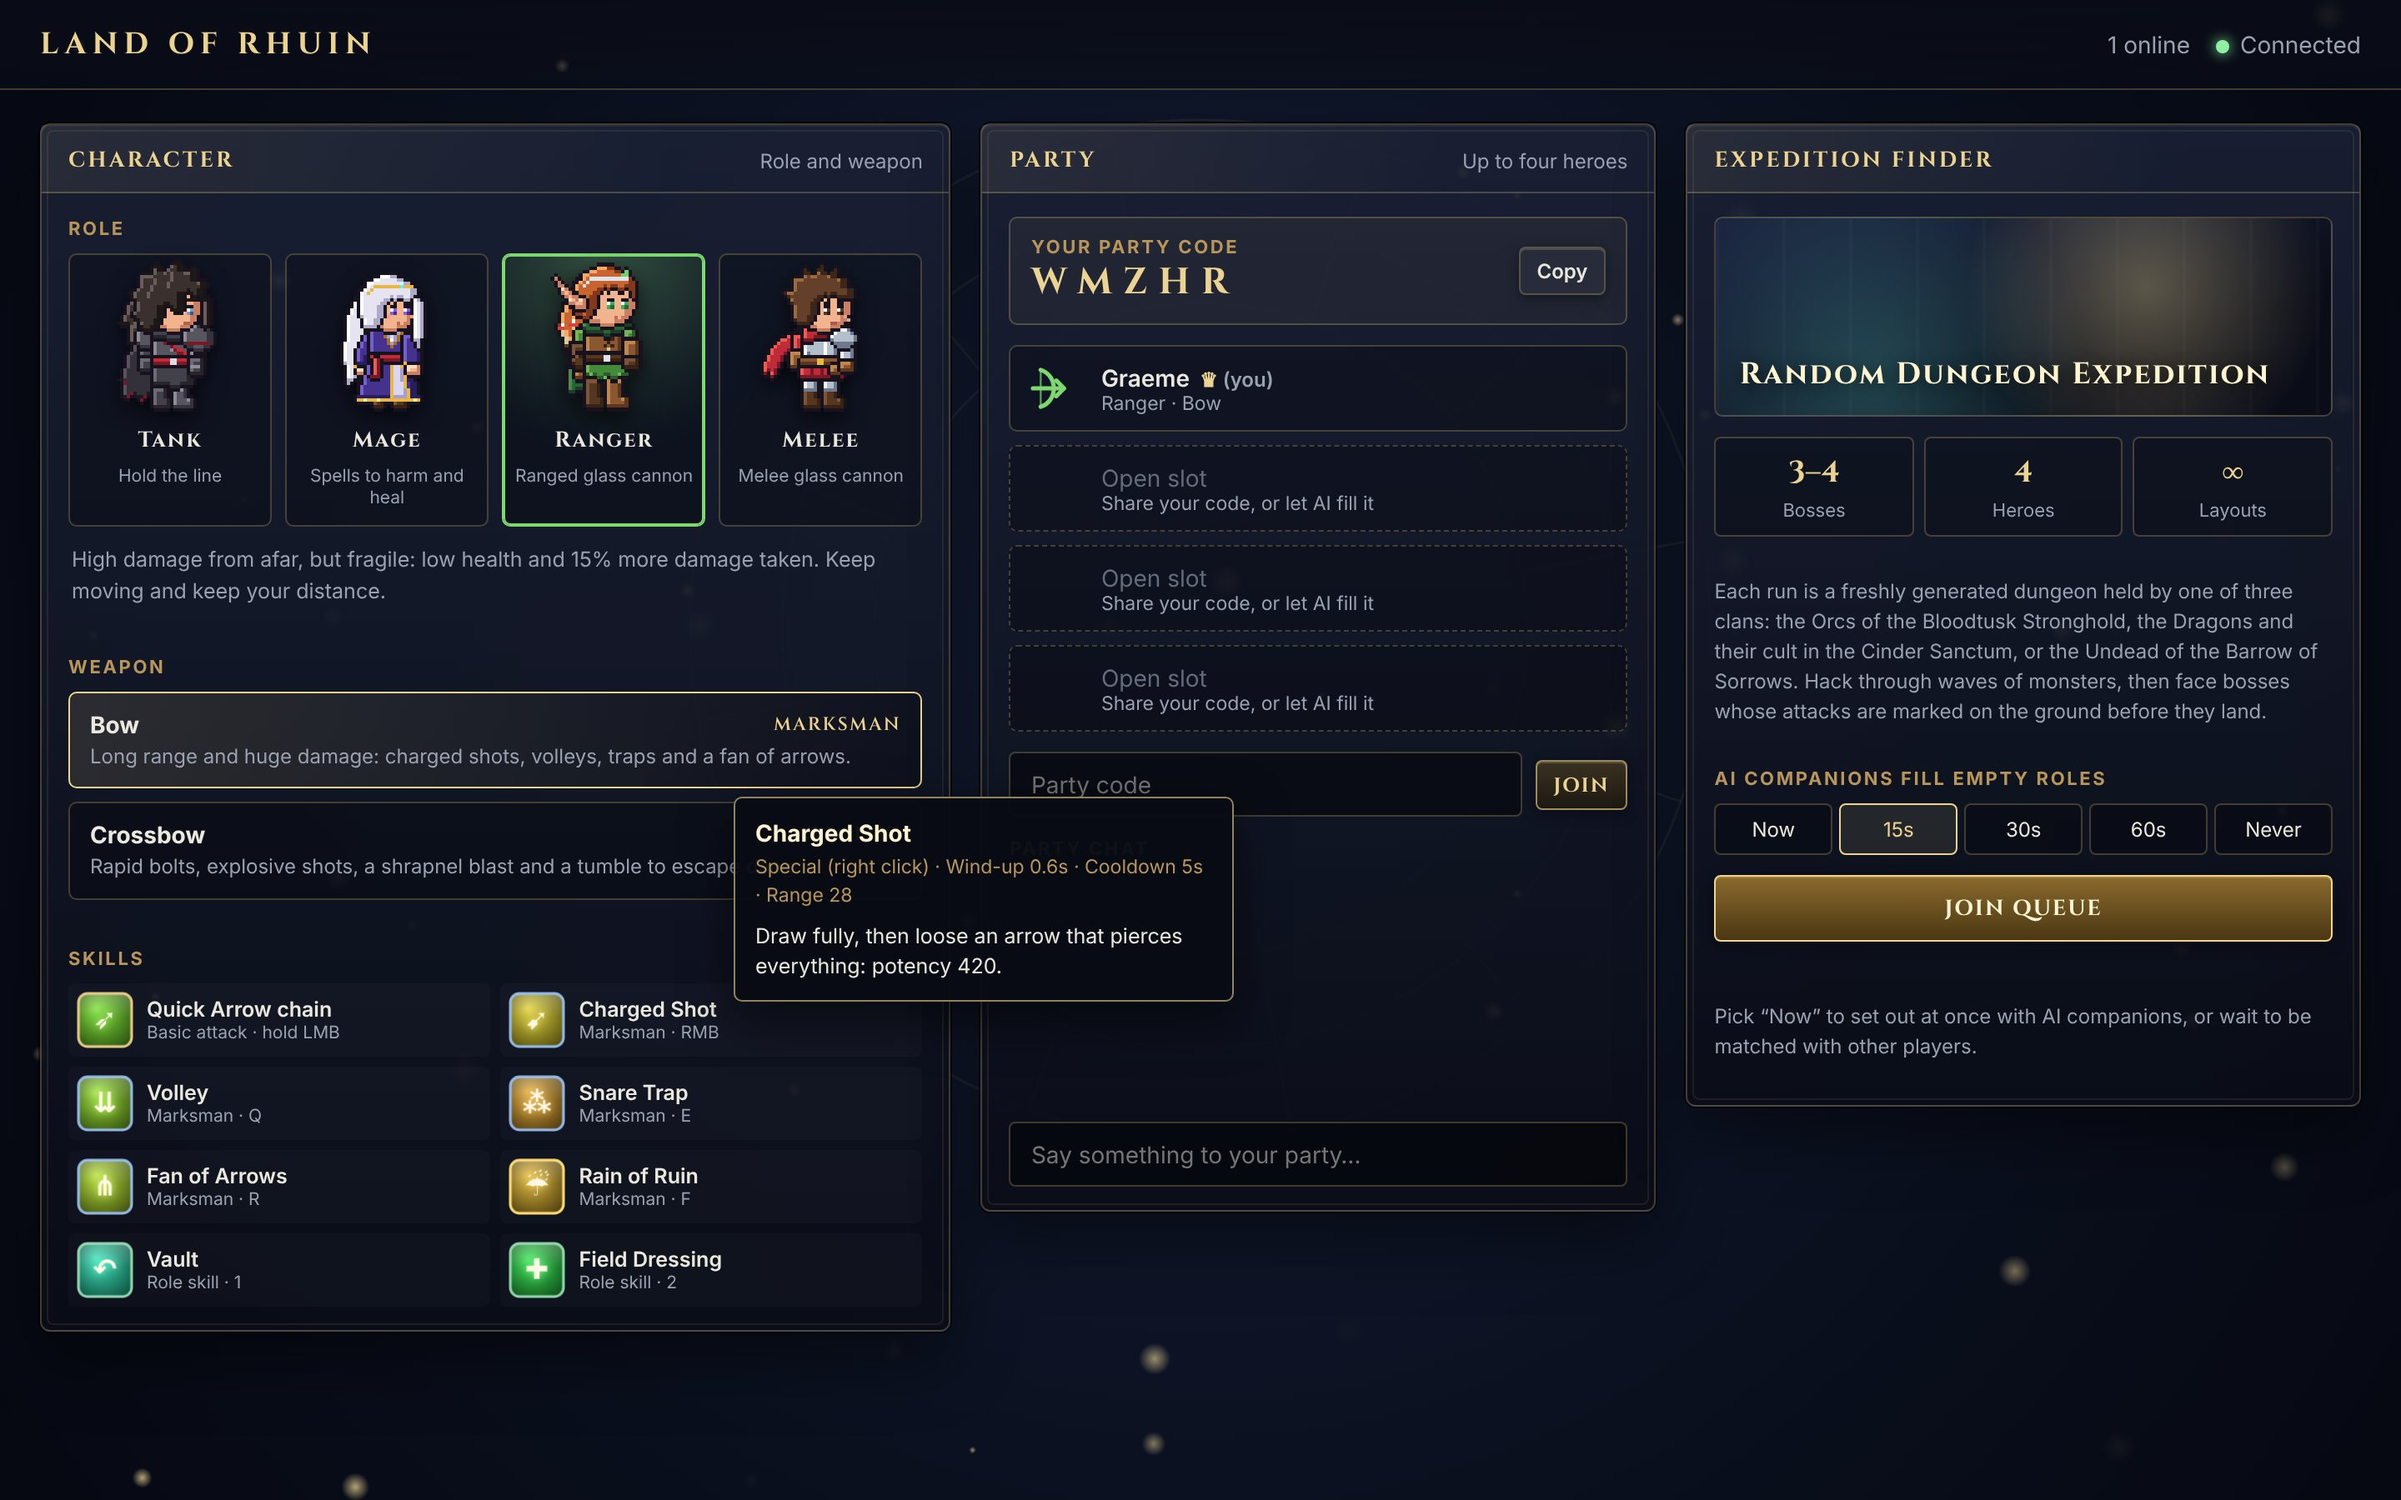
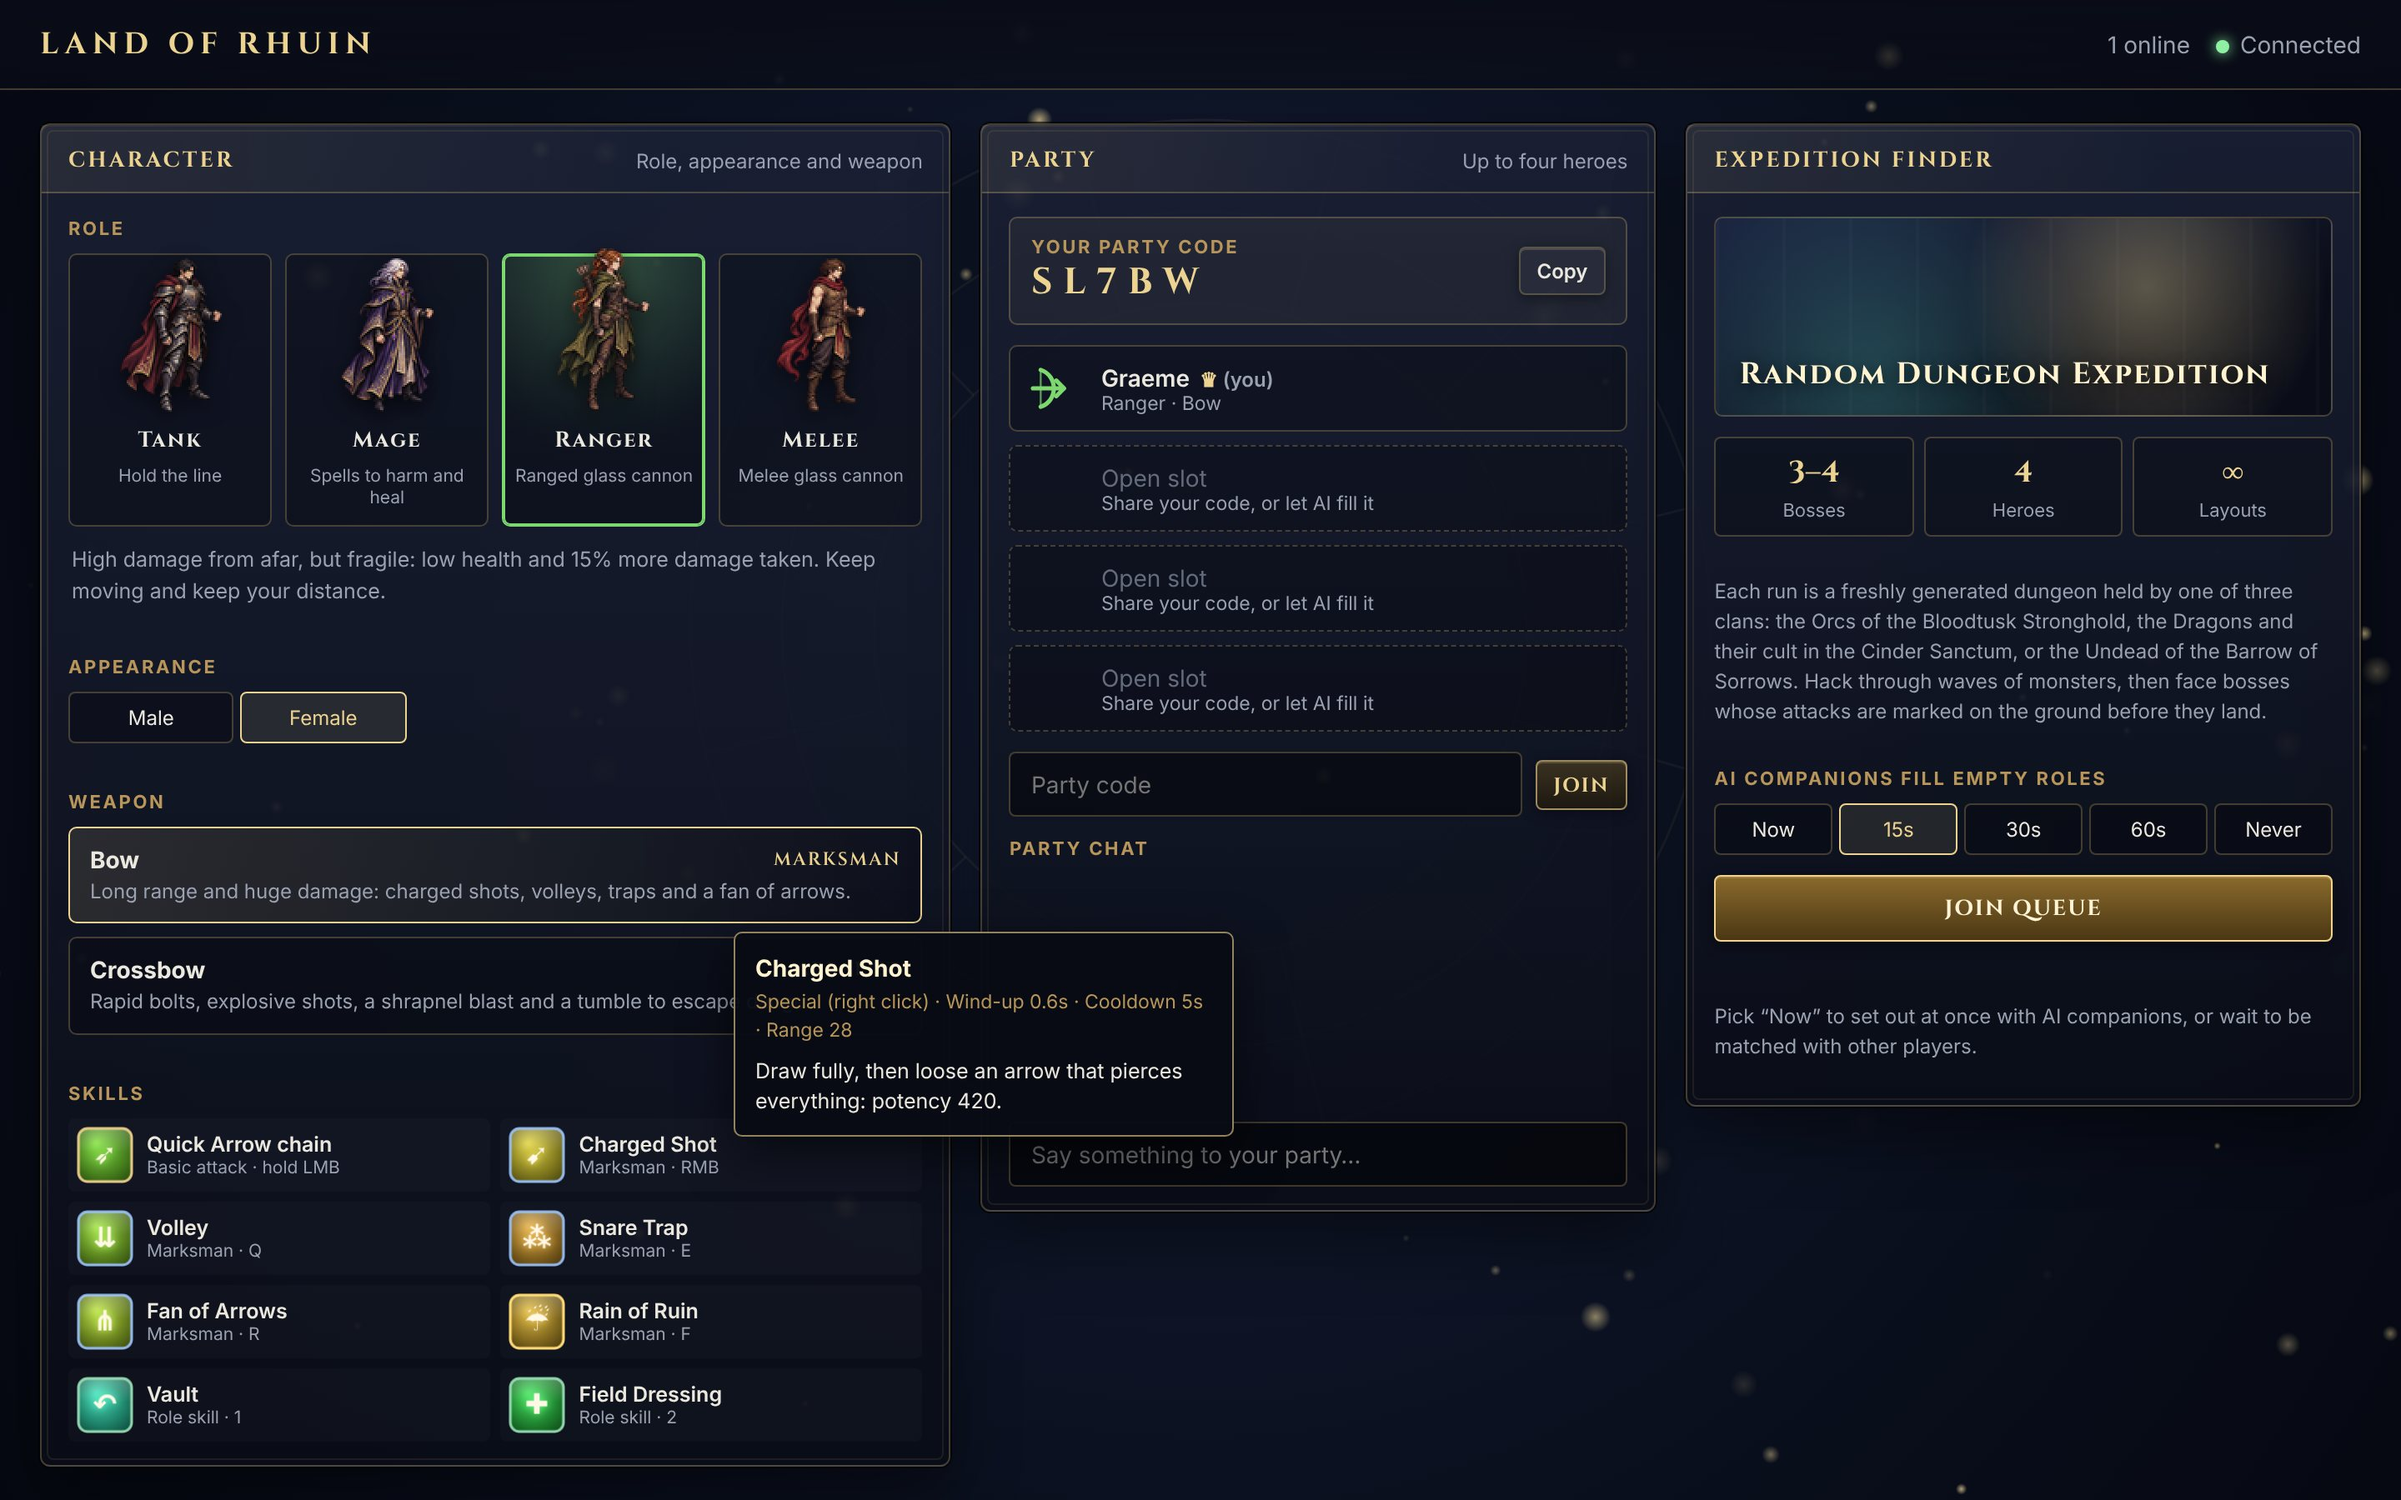
README: describe the new heroes and their appearances
Describe the male and female hero appearances, link the appearances
sheet, and retake the lobby and ready-check screenshots with the new
portraits and the Appearance choice.

Claude-Session: https://claude.ai/code/session_01PGbyV5ggZzqgFPyt3tnswL

diff --git a/README.md b/README.md
@@ -104,12 +104,15 @@ about 750 to 800 and Tanks about 500.
 
 ## Heroes and clans
 
-The heroes are chibi pixel art with dark outlines and three-tone shading: a brooding dark knight
-with shaggy hair over one eye, in charcoal plate with red straps, for the Tank; a long-haired
-white mage in star-blue robes for the Mage; an elvish archer for the Ranger; and a scarfed
-soldier in a steel cuirass for the Melee. Every weapon is its own pixel sprite. Heroes hold their weapon toward your aim and swing it when they attack,
-and the Sword & Shield tank carries a heater shield. Characters bob as they walk, lean into their
-strikes, flash when hit, and fall when knocked out.
+Every hero comes in a male and a female version; pick one under *Appearance* in the lobby, and
+your party sees it in the dungeon. The Tank is an armoured warrior in steel plate and a crimson
+cape, the Mage a silver-haired spellcaster in embroidered robes, the Ranger a cloaked archer with
+a quiver, and the Melee a lightly armoured duelist with a red scarf. Weapons are separate pixel
+sprites: heroes hold theirs toward your aim and swing it when they attack, and the Sword & Shield
+tank carries a heater shield. Characters bob as they walk, lean into their strikes, flash when
+hit, and fall when knocked out.
+
+![Each hero's male and female appearance](docs/screenshots/hero-appearances.jpg)
 
 Each dungeon is the lair of one clan, with its own monsters, bosses, rooms, colours and floor:
 
@@ -119,7 +122,7 @@ Each dungeon is the lair of one clan, with its own monsters, bosses, rooms, colo
 | **Dragons** | The Cinder Sanctum: obsidian, glowing lava cracks and drifting embers | Drakonid Warrior, Wyrmling, Cult Crossbowman, Flamecaller Cultist, Fire Drake, Dragon Idol | Scalebreaker Vorth, High Priestess Seraphine, Ashwing the Wyvern, the Obsidian Guardian, and Ignaroth the Elder Flame |
 | **Undead** | The Barrow of Sorrows: cold stone, graves, cobwebs and green mist | Skeleton Warrior, Ghoul, Skeleton Archer, Necromancer, Bone Abomination, Cursed Obelisk | Sir Morgrave the Death Knight, Lich Vessanthe, Grimmaw the Bone Hound, the Wailing Warden, and Mortheus the Dread King |
 
-![The pixel heroes with their weapons, and every monster and boss](docs/screenshots/bestiary.jpg)
+![Every hero, monster and boss](docs/screenshots/bestiary.jpg)
 
 | Orcs | Dragons | Undead |
 | --- | --- | --- |
